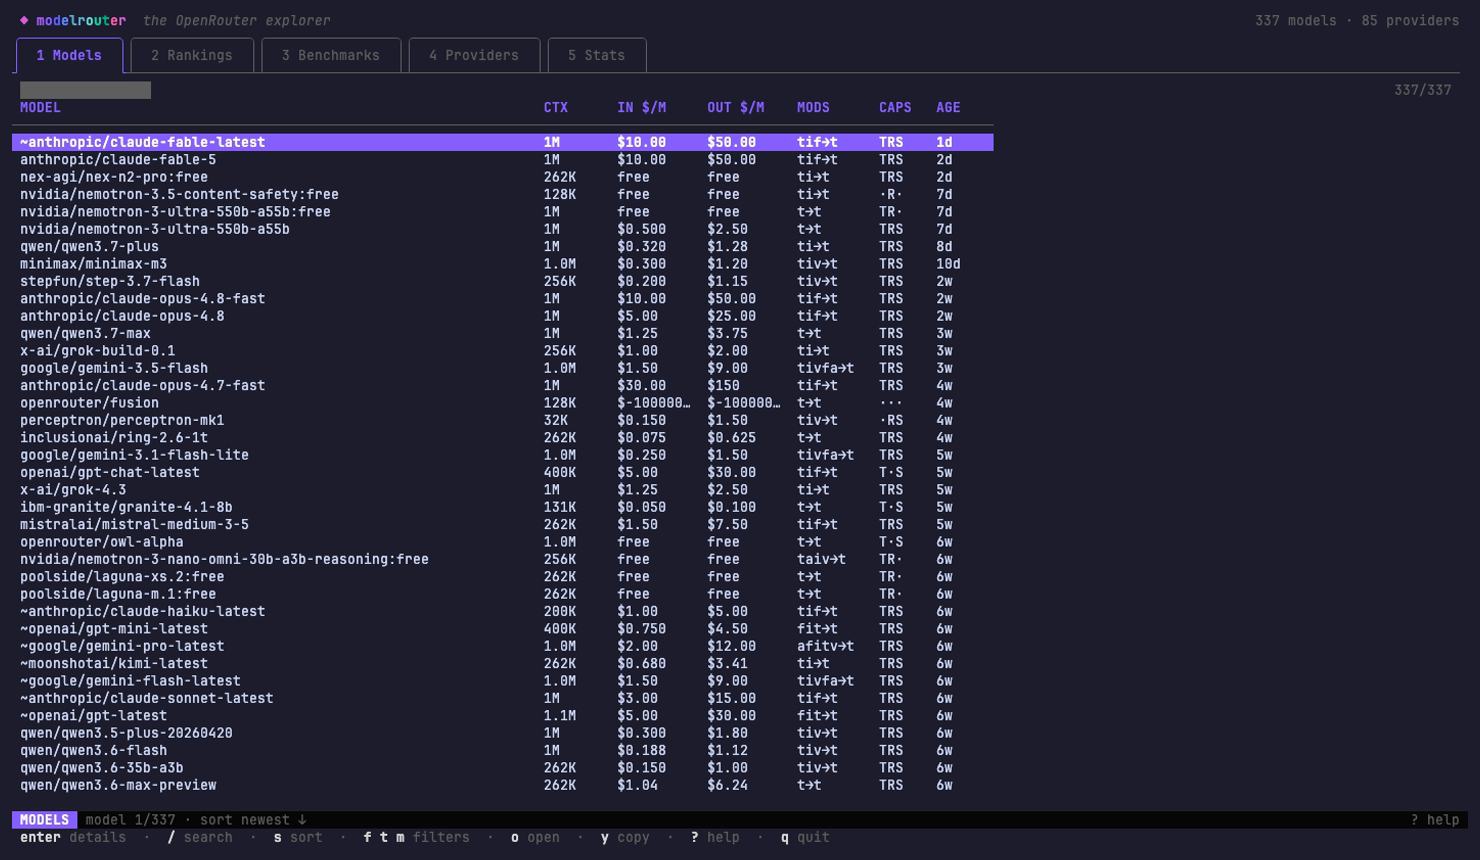
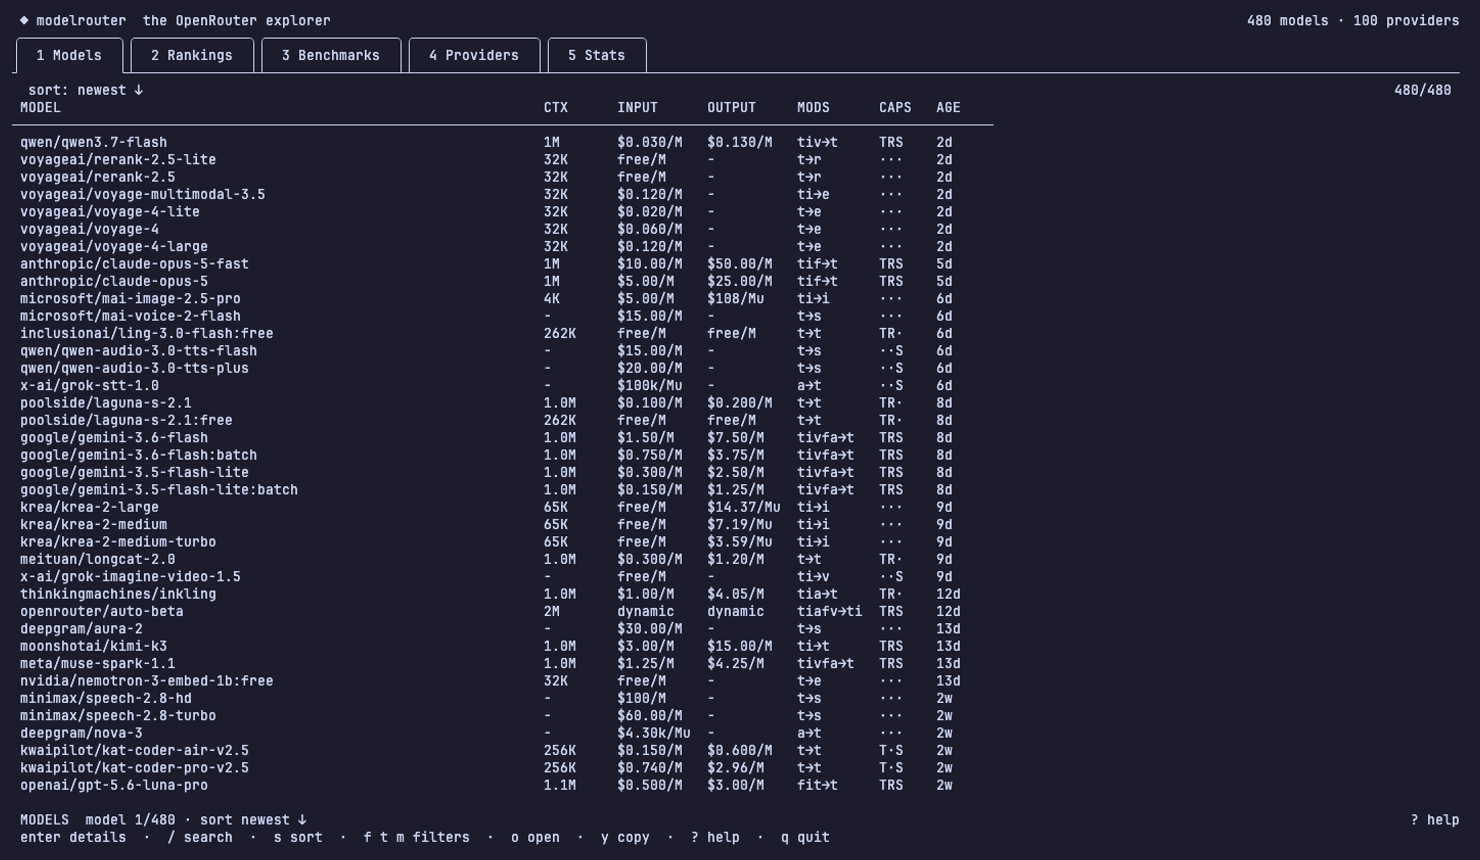
docs: refresh live TUI walkthrough
Document the complete live catalog and provider metadata, add the providers view, and regenerate every screenshot plus the VHS demo from the current application.

diff --git a/README.md b/README.md
@@ -20,11 +20,16 @@ market share, and AI benchmarks from openrouter.ai — without leaving your shel
 
 ## Highlights
 
-- **337+ models** with pricing, context windows, modalities, and capability flags
+- **The complete model catalog** — text, image, audio, speech, transcription,
+  video, embedding, and reranking models with modality-aware pricing
 - **Live rankings** — token-usage leaderboards, author market share, top apps, and
   p50 latency/throughput, auto-refreshed every 5 minutes
-- **AI benchmarks** — Artificial Analysis intelligence/coding/agentic scores and
-  Design Arena elo, embedded right into each model's detail view
+- **AI benchmarks** — every Artificial Analysis index and Design Arena category
+  currently published by OpenRouter, discovered dynamically and embedded into
+  each model's detail view
+- **Provider intelligence** — the complete provider directory with routing
+  capabilities, BYOK, moderation, data-retention/training policy, and public
+  legal/status links
 - **Per-provider endpoints** — quantization, uptime, latency, and throughput for
   every provider serving a model
 - **Fully scriptable** — every view is also a subcommand with `--json` output
@@ -73,10 +78,19 @@ performance leaders. Fetched fresh on open, re-fetched every 5 minutes.
 
 ### ▸ Benchmarks
 
-Artificial Analysis intelligence / coding / agentic leaderboards, Design Arena elo
-and win rates across 8 design categories, and estimated cost per request.
+Every Artificial Analysis leaderboard and Design Arena category in OpenRouter's
+current feed, plus elo, win rates, and estimated cost per request. New upstream
+categories appear automatically.
 
 <img src="assets/benchmarks.png" alt="benchmarks tab" width="900">
+
+### ▸ Providers
+
+The complete OpenRouter provider directory with chat/API capabilities, BYOK,
+training and prompt-retention policy signals, user-ID requirements, regions,
+and public legal/status links.
+
+<img src="assets/providers.png" alt="providers tab" width="900">
 
 ### ▸ Stats
 
@@ -111,7 +125,9 @@ modelrouter stats                           # catalog analytics
 modelrouter export --endpoints --out all.json   # dump everything
 ```
 
-Add `--json` to any of them. `--refresh` bypasses the cache.
+Add `--json` to any of them. `--refresh` strictly bypasses the cache and returns
+an error if live data cannot be fetched; ordinary reads may use a stale snapshot
+during an outage.
 
 ## Keymap
 
@@ -137,7 +153,7 @@ Add `--json` to any of them. `--refresh` bypasses the cache.
 
 | Endpoint | Data |
 |----------|------|
-| `/api/v1/models` | full model catalog |
+| `/api/v1/models?output_modalities=all` | complete multimodal model catalog |
 | `/api/v1/models/{id}/endpoints` | per-provider endpoints, uptime, latency |
 | `/api/v1/providers` | provider directory |
 
@@ -145,15 +161,17 @@ Add `--json` to any of them. `--refresh` bypasses the cache.
 
 | Endpoint | Data |
 |----------|------|
-| `/api/frontend/rankings/models` | daily token usage per model |
-| `/api/frontend/rankings/apps` | top apps by day/week/month |
-| `/api/frontend/rankings/market-share` | weekly author token share |
-| `/api/frontend/rankings/performance` | p50 latency/throughput |
-| `/api/frontend/rankings/benchmarks` | Artificial Analysis + Design Arena + request costs |
+| `/api/frontend/v1/rankings/models` | daily token usage per model |
+| `/api/frontend/v1/rankings/apps` | top apps by day/week/month |
+| `/api/frontend/v1/rankings/market-share` | weekly author token share |
+| `/api/frontend/v1/rankings/performance` | p50 latency/throughput |
+| `/api/frontend/v1/rankings/benchmarks` | Artificial Analysis + Design Arena + request costs |
+| `/api/frontend/v1/providers` | routing capabilities and public provider policy metadata |
 
-The frontend endpoints are undocumented and may change; if a rankings view breaks,
-the rest of the CLI keeps working. The catalog is cached for 1 hour and rankings
-for 5 minutes under your OS cache directory (`modelrouter clear-cache` wipes it).
+The frontend endpoints are undocumented and may change; responses are
+shape-validated and the official provider feed remains the fallback. Live
+surfaces refresh every 5 minutes and are cached under your OS cache directory
+(`modelrouter clear-cache` wipes it).
 
 ## Built with
 
